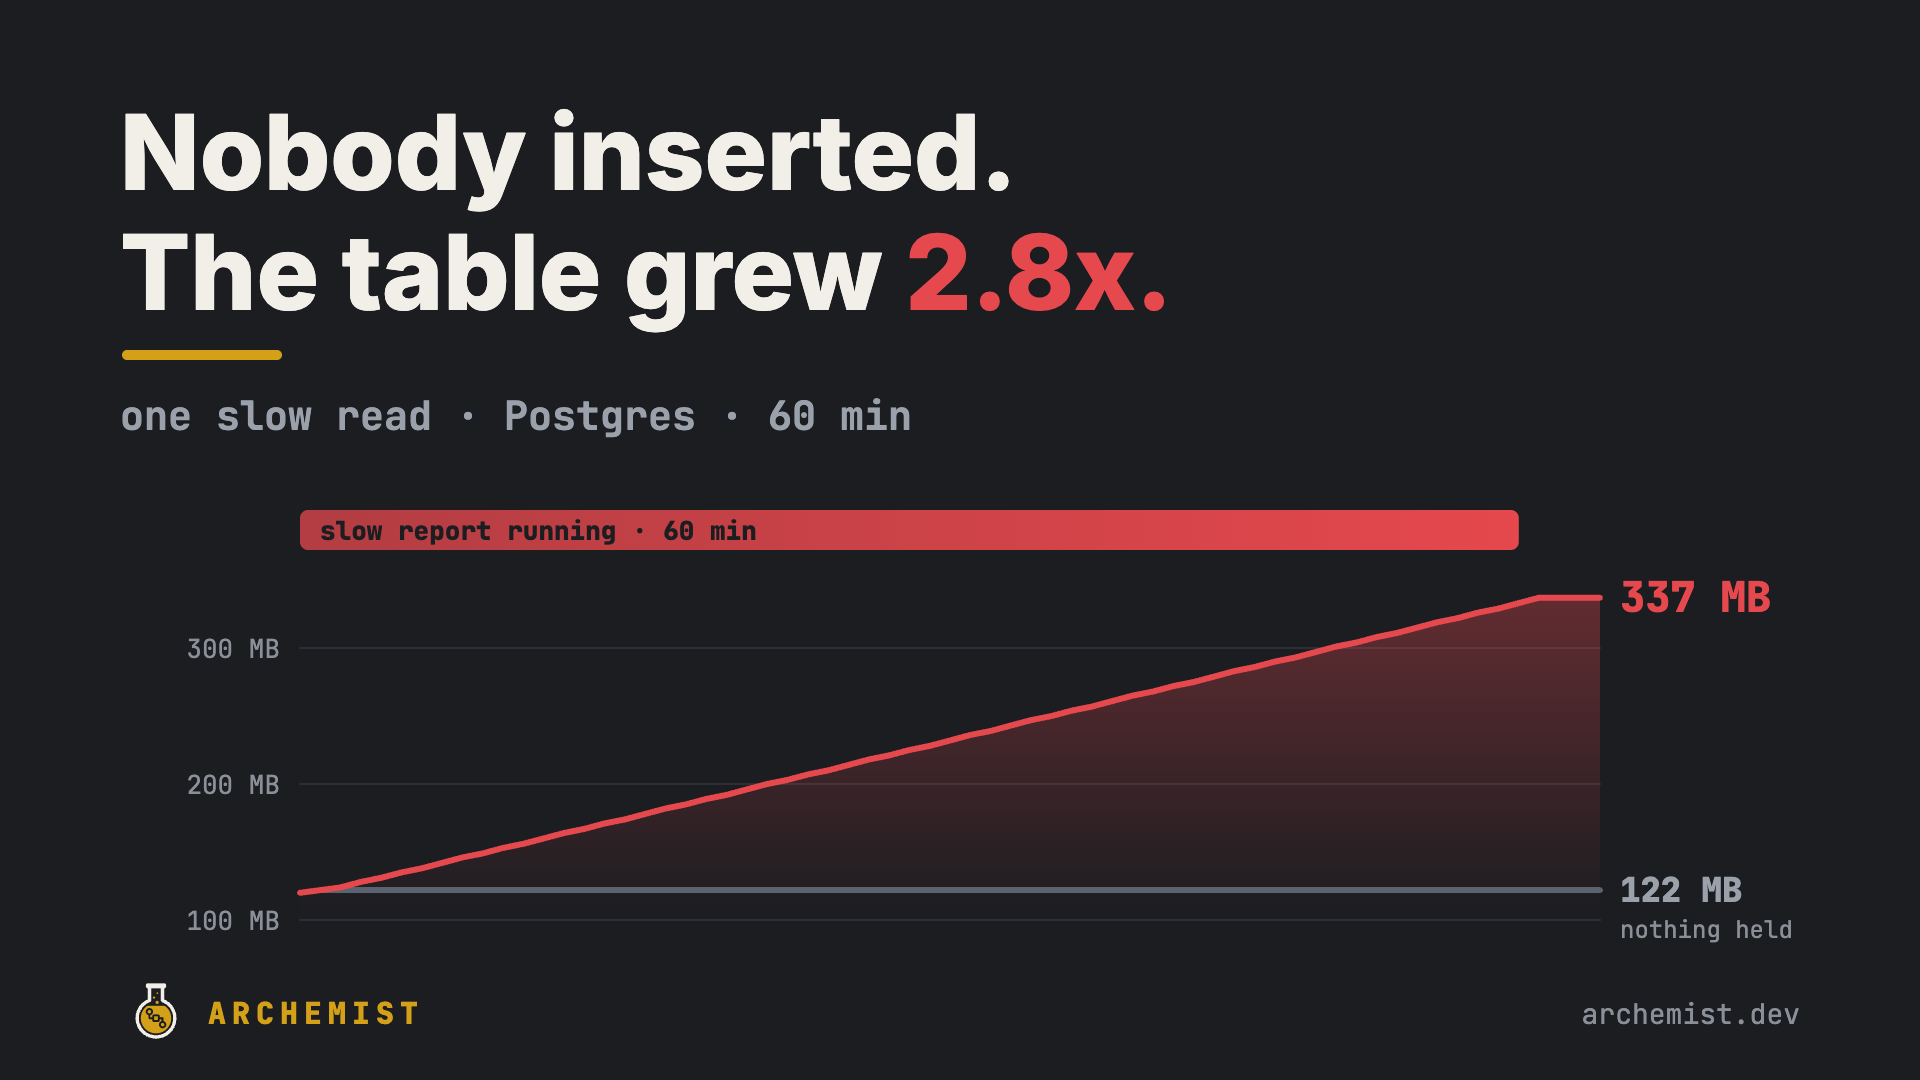
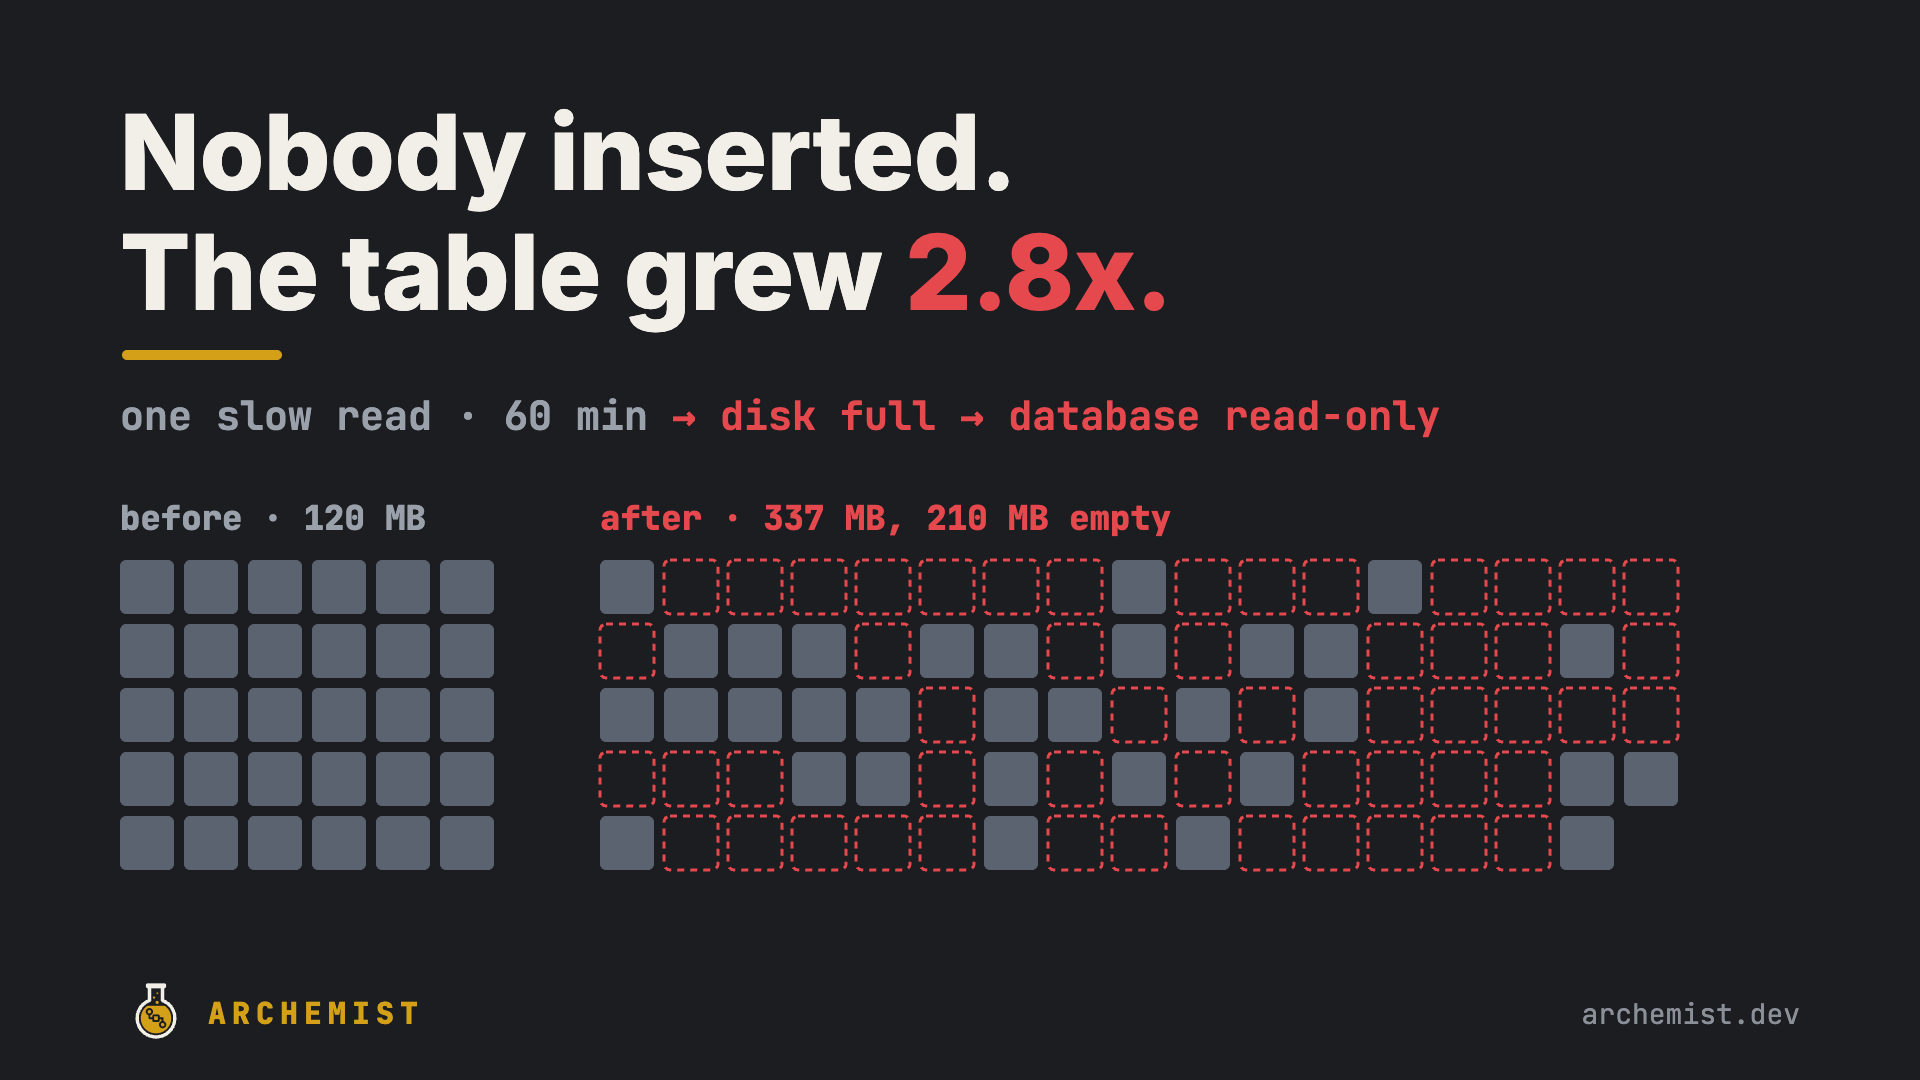
table-bloat: new cover

Changed region(s): [[0.0625, 0.4583, 0.9375, 0.8861], [0.25, 0.3667, 0.75, 0.3972], [0.0625, 0.4583, 0.125, 0.4889]]

diff --git a/src/content/articles/table-bloat/index.md b/src/content/articles/table-bloat/index.md
@@ -4,7 +4,7 @@ description: "At a marketplace app, writes stopped one day. The managed database
 pubDate: "2026-11-23"
 pillar: "under-the-hood"
 cover: "./cover.png"
-coverAlt: "Nobody inserted. The table grew 2.8x. Line chart over 60 minutes while one slow report runs: the table grows from 120 to 337 MB; with nothing held it stays at 122 MB."
+coverAlt: "Nobody inserted. The table grew 2.8x. One slow read for 60 minutes, then disk full and the database read-only. The table file drawn as 4 MB boxes: before, 120 MB of rows; after, 337 MB with 210 MB of it empty."
 labs: "https://github.com/archemist-dev/labs/tree/main/08-table-bloat"
 draft: false
 ---
